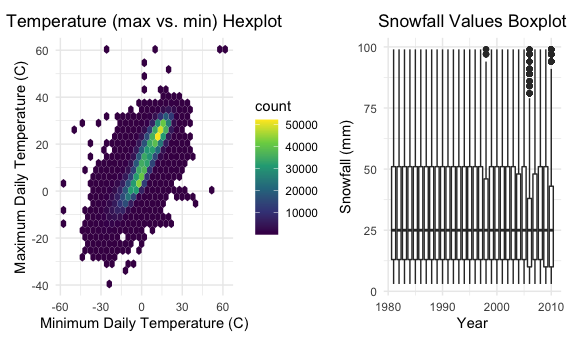
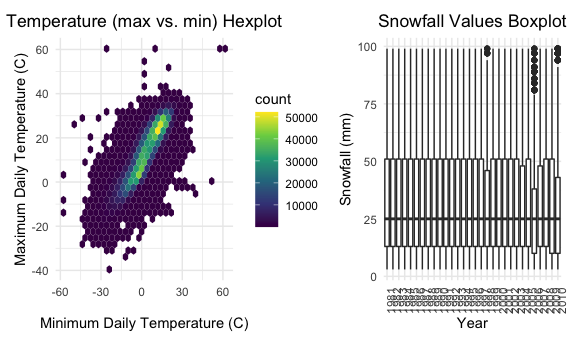
Improving plots

diff --git a/p8105_hw3_yoa2102.md b/p8105_hw3_yoa2102.md
@@ -256,7 +256,7 @@ There appear to be a significant number of missing values in the above
 mentioned variables. These may need to dropped from the dataset during
 the data visualization process.
 
-##### Cleaning the NOAA dataset by separating the date variable and ensuring reasonable measurement units.
+#### Cleaning the NOAA dataset by separating the date variable and ensuring reasonable measurement units.
 
 ``` r
 ny_noaa_clean = 
@@ -264,7 +264,7 @@ ny_noaa_clean =
  separate(date, into = c("year", "month", "day"), convert = TRUE) %>%
  mutate(
    prcp = prcp/10,
-   year = as.numeric(year),
+   year = as.factor(year),
    month = as.numeric(month),
    day = as.numeric(day),
    tmax = as.numeric(tmax)/10,
@@ -369,7 +369,8 @@ snow_dist =
     x = "Year",
     y = "Snowfall (mm)") +
   geom_boxplot(aes(group = year)) +
-  theme(plot.title = element_text(hjust = 0.5))
+  theme(plot.title = element_text(hjust = 0.5)) +
+  theme(axis.text.x = element_text(angle = 90, hjust = 1))
   
      
 tmaxmin + snow_dist
